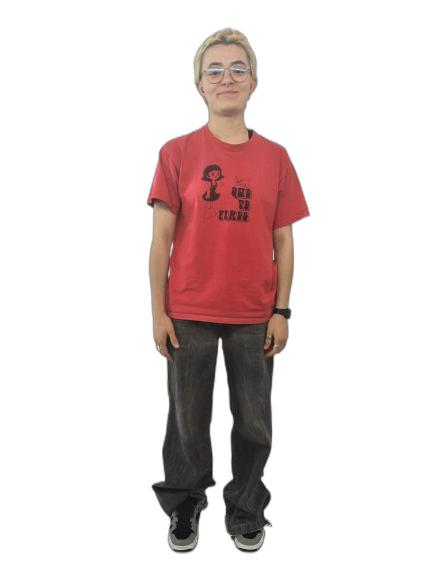
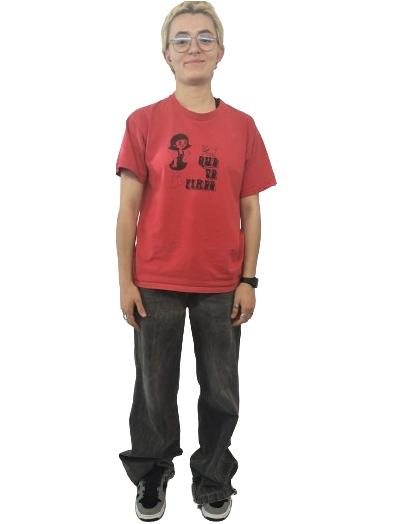
Pre-Processing second version, superresolution implemented but not fully functional

Changed region(s): [[0.2748, 0.0, 0.7328, 1.0]]

diff --git a/PreProcessing/image_processing.py b/PreProcessing/image_processing.py
@@ -1,10 +1,12 @@
-import os
 import cv2
 import numpy as np
+import os
+# import tensorflow as tf
+# import tensorflow_hub as hub
+from ultralytics import YOLO
 from PIL import Image
 from PIL import ImageDraw
 import urllib.request
-from ultralytics import YOLO
 
 
 def get_project_root():
@@ -14,7 +16,41 @@ def get_project_root():
 data_dir = os.path.join(get_project_root(), "PreProcessing/images")
 
 
+'''
+def superresolution_image(image_path, model_url, output_path):
+    # Load the original image
+    img = cv2.imread(image_path)
+    image_plot = cv2.cvtColor(img, cv2.COLOR_BGR2RGB)
+
+    # Load the super-resolution model
+    model = hub.load(model_url)
+
+    # Function to preprocess images
+    def preprocessing(img):
+        imageSize = (tf.convert_to_tensor(image_plot.shape[:-1]) // 4) * 4
+        cropped_image = tf.image.crop_to_bounding_box(
+            img, 0, 0, imageSize[0], imageSize[1])
+        preprocessed_image = tf.cast(cropped_image, tf.float32)
+        return tf.expand_dims(preprocessed_image, 0)
+
+    # Function to apply super resolution
+    def apply_superresolution(img):
+        preprocessed_image = preprocessing(img)  # Preprocess the image
+        new_image = model(preprocessed_image)  # Run the super resolution model
+        return tf.squeeze(new_image) / 255.0
+
+    # Apply super resolution to image
+    hr_image = apply_superresolution(image_plot)
+
+    # Save super resolved image
+    cv2.imwrite(output_path, cv2.cvtColor(hr_image.numpy() * 255, cv2.COLOR_RGB2BGR))
+    print("Imagen superresuelta guardada en:", output_path)
+'''
+
+
+## Instance segmentation and then paste it onto white bg 3:4
 def masks(image_path, output_path):
+  try:
     # Use the model
     model = YOLO("yolov8m-seg.pt")
     results = model.predict(image_path)
@@ -22,129 +58,60 @@ def masks(image_path, output_path):
     masks = result.masks
     len(masks)
     mask1 = masks[0]
-    mask = mask1.data[0].numpy()
+    mask = mask1.data[0].cpu().numpy()
     polygon = mask1.xy[0]
 
     mask_img = Image.fromarray(mask,"I")
     mask_img.save(output_path)
 
-
-# Remove background function (output has to be .png to support transparency)
-def removebg(image_path, output_path):
-    # Define input image
-    input_image = Image.open(image_path)
-
-    # Convert the input image to a numpy array
-    input_array = np.array(input_image)
-
-    # Remove background
-    output_array = rembg.remove(input_array)
-
-    # Convert numpy array back to image
-    output_image = Image.fromarray(output_array)
-
-    # Save output image
-    output_image.save(output_path)
-
-    # Close all OpenCV windows
-    cv2.waitKey(0)
-    cv2.destroyAllWindows()
+  except Exception as e:
+    # Handle any unexpected errors
+    print(f"No person detected: {e}")
 
 
+def segmentation(image_path, masks_path, output_path):
+  try:
+    # Load the original image and the person's mask
+    img = Image.open(image_path)
+    mask_img1 = Image.open(masks_path)
 
-# Obtaining the center of the previous image
-def centercut(image_path, output_path):
-    # Load YOLO model
-    net = download_yolo_model(weights_url, cfg_url, weights_path, cfg_path)
+    # Resize the mask so that it has the same dimensions as the original image
+    mask_img1 = mask_img1.resize(img.size)
 
-    # Define input image
-    image = cv2.imread(image_path)
+    # Calculate the bounding rectangle of the person in the mask
+    bbox = mask_img1.getbbox()
 
-    # Get image dimensions
-    (height, width) = image.shape[:2]
+    if bbox is not None:
+        # Calculate the dimensions of the detected person
+        person_width = bbox[2] - bbox[0]
+        person_height = bbox[3] - bbox[1]
 
-    # Define the neural network input
-    blob = cv2.dnn.blobFromImage(image, 1 / 255.0, (416, 416), swapRB=True, crop=False)
-    net.setInput(blob)
+        # Calculate the dimensions of the white background image in a 3:4 ratio with respect to the person
+        bg_width = int(person_height* 3 / 4)
+        bg_height = person_height
 
-    # Perform forward propagation
-    output_layer_name = net.getUnconnectedOutLayersNames()
-    output_layers = net.forward(output_layer_name)
-    expansion_factor = 1.2
+        # Calculate the offset needed to center the person in the white background image
+        offset_x = int((bg_width - person_width) // 2)
+        offset_y = int((bg_height - person_height) // 2)
 
-    # Initialize list of detected people
-    people = []
+        # Create a new RGB image to store the cropped person
+        person_img = Image.new("RGB", (bg_width, bg_height), (255, 255, 255))  # Initialize with white background
 
-    # Loop over the output layers
-    for output in output_layers:
-        # Loop over the detections
-        for detection in output:
-            # Extract the class ID and confidence of the current detection
-            scores = detection[5:]
-            class_id = np.argmax(scores)
-            confidence = scores[class_id]
+        # Combine original image with transparency mask
+        for x in range(img.width):
+            for y in range(img.height):
+                pixel_value = mask_img1.getpixel((x, y))
+                if pixel_value >= 128:  # If the pixel corresponds to the person
+                    new_x = x - bbox[0] + offset_x
+                    new_y = y - bbox[1] + offset_y
+                    if 0 <= new_x < bg_width and 0 <= new_y < bg_height:
+                        person_img.putpixel((new_x, new_y), img.getpixel((x, y)))  # Keep the original color
 
-            # Only keep detections with a high confidence
-            if class_id == 0 and confidence > 0.5:
-                # Object detected
-                center_x = int(detection[0] * width)
-                center_y = int(detection[1] * height)
-                w = int(detection[2] * width)
-                h = int(detection[3] * height)
+        # Save final result
+        person_img.save(output_path)
+    else:
+        print("WARNING! No person was detected in the mask.")
 
-                # Rectangle coordinates
-                x = int(center_x - w / 2)
-                y = int(center_y - h / 2)
-
-                # Expand the bounding box by a certain factor
-                expanded_x = max(0, x - int((expansion_factor - 1) * w / 2))
-                expanded_y = max(0, y - int((expansion_factor - 1) * h / 2))
-                expanded_w = min(width - expanded_x, int(expansion_factor * w))
-                expanded_h = min(height - expanded_y, int(expansion_factor * h))
-
-                # Add the detection to the list of people
-                people.append((expanded_x, expanded_y, expanded_w, expanded_h))
-
-    # If no people detected, return original image
-    if not people:
-        print("No people detected.")
-        return
-
-    # Find the bounding box of the person with the largest area
-    (x, y, w, h) = max(people, key=lambda box: box[2] * box[3])
-
-    # Crop the image
-    cropped_image = image[y:y+h, x:x+w].copy()
-
-    # The next lines are to maintain transparency in the output picture
-    # Open the input image using Pillow to get the alpha channel
-    input_image = Image.open(image_path)
-    # Extract the alpha channel
-    alpha_channel = np.array(input_image.split()[-1])
-    # Create the cropped image with alpha channel
-    cropped_image_with_alpha = cv2.cvtColor(cropped_image, cv2.COLOR_BGR2BGRA)
-    # Set the alpha channel of the cropped image
-    cropped_image_with_alpha[:, :, 3] = alpha_channel[y:y+h, x:x+w]
-
-    # Save the result
-    cv2.imwrite(output_path, cropped_image_with_alpha)
-
-
-
-# Pasting the png "sticker" to a 3:4 aspect ratio background
-def white34(image_path, output_path):
-    # Load the PNG image with alpha channel (transparency)
-    foreground = Image.open(image_path)
-
-    # Create a new white background image with a 3:4 aspect ratio
-    new_width = foreground.height * 3 // 4
-    background = Image.new("RGB", (new_width, foreground.height), "white")
-
-    # Calculate the position to center the PNG image
-    x_offset = (new_width - foreground.width) // 2
-
-    # Paste the PNG image onto the white background
-    background.paste(foreground, (x_offset, 0), foreground)
-
-    # Save the resulting image
-    background.save(output_path)
+  except Exception as e:
+        # Handle any unexpected errors
+        print(f"No person detected: {e}")

diff --git a/PreProcessing/run.py b/PreProcessing/run.py
@@ -1,7 +1,7 @@
 import os
 import image_processing
 import argparse
-from image_processing import removebg, centercut, white34
+from image_processing import masks, segmentation
 
 
 def main():
@@ -11,20 +11,22 @@ def main():
 
     # Define paths
     parser = argparse.ArgumentParser(description="run pre-processing")
-    parser.add_argument("--user_img", type=str, help="User input image name", required=True)
+    parser.add_argument("--user_path", type=str, help="User input image path (file extension included)", required=True)
     args = parser.parse_args()
-    input_image_name = args.user_img
-    input_image_path = os.path.join(data_dir, "initial_model", input_image_name)
-    input_image_png = os.path.splitext(input_image_name)[0] + ".png"
-    output_bg_removed_path = os.path.join(data_dir, "stickers", input_image_png)
-    output_centercut_path = os.path.join(data_dir, "cropped", input_image_png)
-    input_image_jpg = os.path.splitext(input_image_name)[0] + ".jpg"
-    output_white34_path = os.path.join(data_dir, "final_model", input_image_jpg)
+    # Input image and path
+    input_image_path = args.user_path
+    input_image_name = os.path.splitext(os.path.basename(input_image_path))[0]
+    # Input image path converted to PNG
+    input_image_png = input_image_name + ".png"
+    # Mask image, saved in 'masks' folder
+    mask_path = os.path.join(data_dir, "masks", input_image_png)
+    # Final segmented image, converted to JPG, saved in 'final_model' folder
+    final_image_jpg = os.path.splitext(input_image_png)[0] + ".jpg"
+    final_image_path = os.path.join(data_dir, "final_model", final_image_jpg)
 
     # Call functions from image_processing.py
-    removebg(input_image_path, output_bg_removed_path)
-    centercut(output_bg_removed_path, output_centercut_path)
-    white34(output_centercut_path, output_white34_path)
+    masks(input_image_path, mask_path)
+    segmentation(input_image_path, mask_path, final_image_path)
 
 if __name__ == "__main__":
     main()
